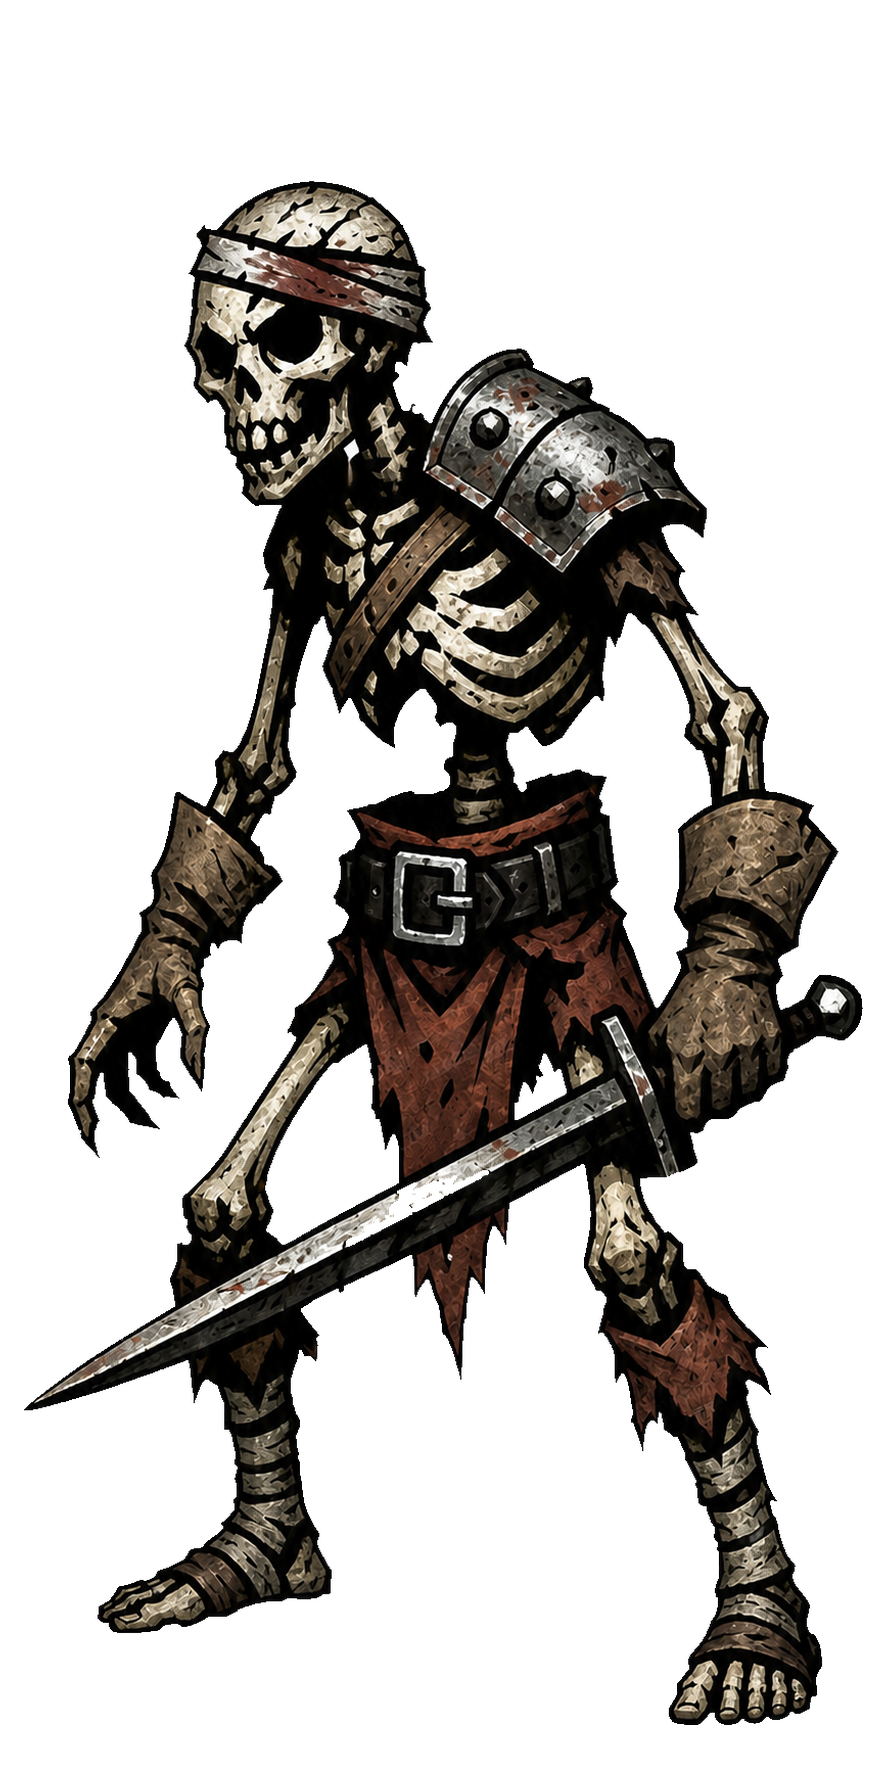
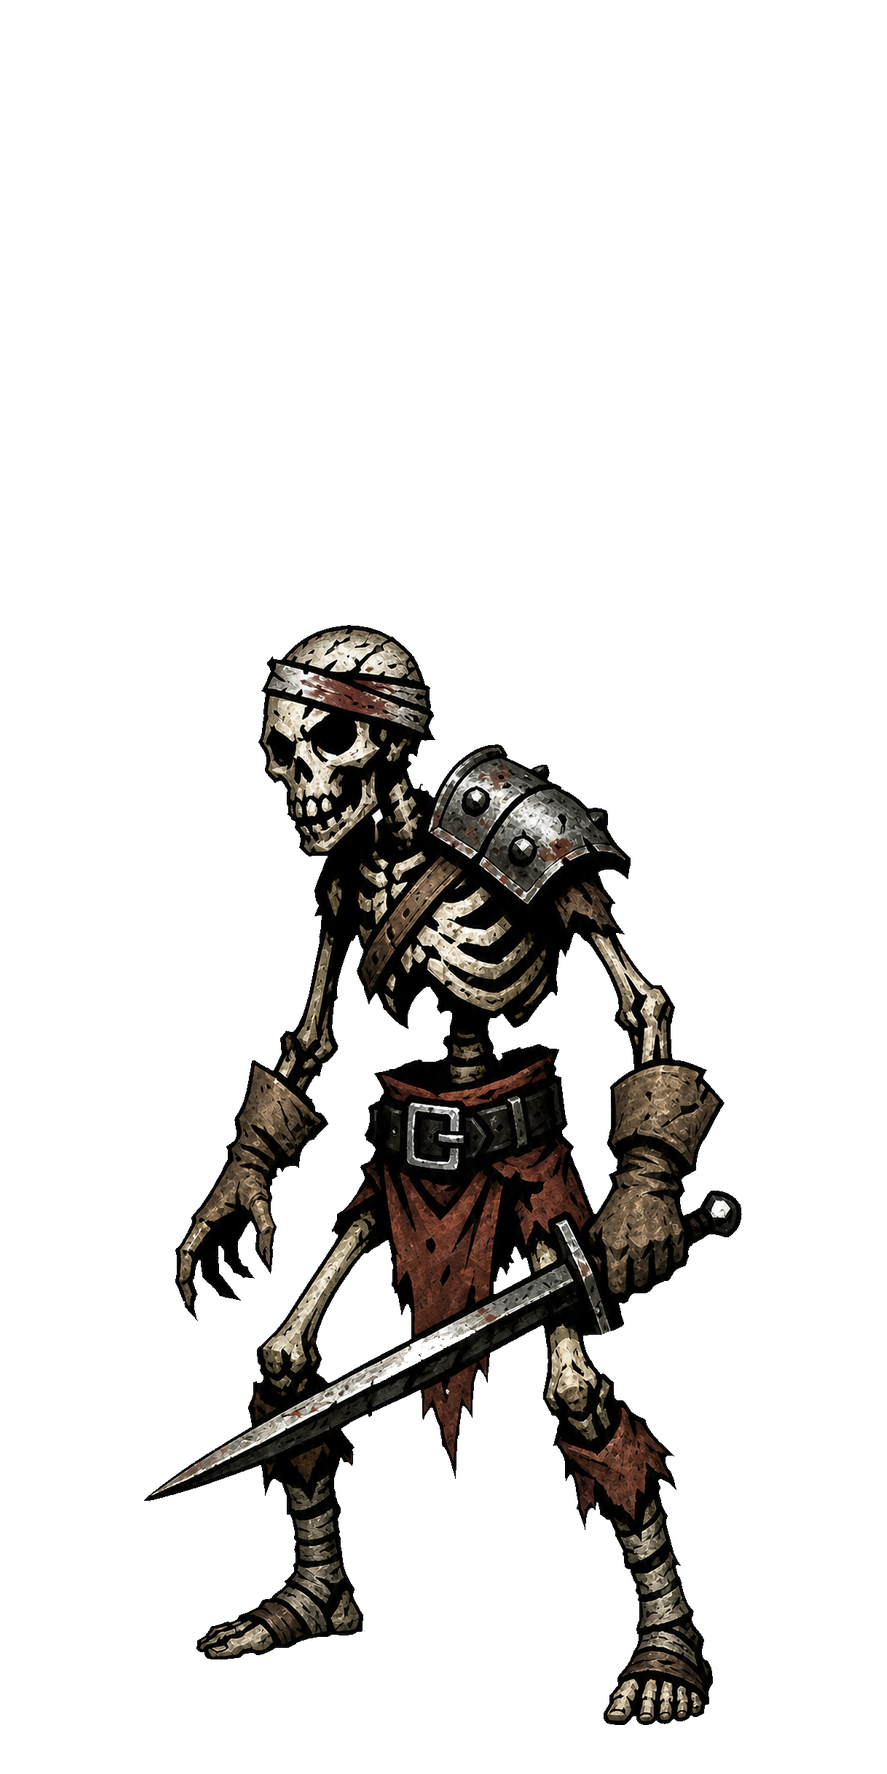
feat: add the run map between the loadout and the first room
Screen 4 now proceeds to the map, and the map is where a room is entered from.

The route is the parchment's own: eight nodes, one crooked line left to right,
with the circles and the dotted line between them painted into the art. The map
ships a sibling .json giving each node's position as a fraction of the image, so
this places a marker over every circle rather than drawing a second set. Those
markers are the slots the room icons will sit in.

Only the next room can be entered, which is Room 1 until a run tracks its own
progress. The other seven nodes are drawn and inert — rooms.json now holds eight
rooms to match the route, but only Room 1 has anything behind it.

The overlay is anchored to the image's own box. Giving that box a shape of its
own letterboxes the image inside it and every marker drifts off its circle,
which is what the first two attempts did.

Also restores the skeleton's idle rate to the fighter's 4.5351fps. Regenerating
the sheet had reset it to 9.

diff --git a/src/screens/RunMap.jsx b/src/screens/RunMap.jsx
@@ -1,0 +1,88 @@
+import { useDispatch } from 'react-redux'
+import roomData from '../../data/rooms.json'
+import { resolveMap } from '../config/assets'
+import MusicToggle from '../audio/MusicToggle'
+import { goTo } from '../store/uiSlice'
+
+/**
+ * Screen 5 — the run map.
+ *
+ * Between the loadout and the first fight, and where the player comes back to
+ * between fights. The route is a single crooked line of rooms running left to
+ * right (D3: no branching, one path).
+ *
+ * The circles and the dotted line joining them are painted into the parchment.
+ * What this draws is one marker per room, positioned from the coordinates the
+ * map's own JSON records — normalised, so they hold at any size. The markers
+ * are the slots the room icons will sit in.
+ *
+ * Only the next room can be entered (D3). Rooms past it are drawn but inert,
+ * because nothing behind them exists yet.
+ */
+
+/** Room 1 until a run tracks its own progress. */
+const NEXT_ROOM_INDEX = 0
+
+export default function RunMap() {
+  const dispatch = useDispatch()
+  const map = resolveMap(roomData.map)
+
+  if (!map) return null
+
+  const { nodes, width, nodeRadius } = map.meta
+  // The markers scale with the parchment, so the radius is a share of its width.
+  const markerSize = `${((nodeRadius * 2) / width) * 100}%`
+
+  return (
+    <main className="relative flex h-full w-full items-center justify-center overflow-hidden bg-soot-950">
+      <MusicToggle className="absolute top-6 right-6 z-20" />
+
+      {/* The wrapper is inline-block so it shrink-wraps the parchment exactly.
+          The node coordinates below are fractions of the image, so the markers
+          only land on the painted circles if this box IS the image — give it a
+          shape of its own and the image letterboxes inside it, and every marker
+          drifts. The cap is in viewport units because a percentage max-height
+          against an auto-height box does not resolve. */}
+      <div className="relative inline-block">
+        <img src={map.url} alt="" className="block max-h-screen w-auto max-w-full" />
+
+        {roomData.rooms.map((room, i) => {
+          const node = nodes[i]
+          if (!node) return null
+
+          const isNext = i === NEXT_ROOM_INDEX
+          const position = {
+            left: `${node.xNormalized * 100}%`,
+            top: `${node.yNormalized * 100}%`,
+            width: markerSize,
+            aspectRatio: '1',
+          }
+
+          return isNext ? (
+            <button
+              key={room.id}
+              type="button"
+              onClick={() => dispatch(goTo('room'))}
+              aria-label={`Enter ${room.name}`}
+              style={position}
+              className={[
+                '-translate-x-1/2 -translate-y-1/2 absolute cursor-pointer rounded-full',
+                'border-2 border-gold-300 bg-gold-500/20',
+                'transition-colors duration-150 outline-none',
+                'hover:bg-gold-500/40 focus-visible:ring-2 focus-visible:ring-gold-400',
+              ].join(' ')}
+            />
+          ) : (
+            <div
+              key={room.id}
+              aria-hidden="true"
+              title={room.name}
+              style={position}
+              className="-translate-x-1/2 -translate-y-1/2 absolute rounded-full border border-dashed border-soot-900/50"
+            />
+          )
+        })}
+      </div>
+    </main>
+  )
+}

diff --git a/src/App.jsx b/src/App.jsx
@@ -5,6 +5,7 @@ import HomeScreen from './screens/HomeScreen'
 import CharacterCreation from './screens/CharacterCreation'
 import PetCreation from './screens/PetCreation'
 import StartingLoadout from './screens/StartingLoadout'
+import RunMap from './screens/RunMap'
 import BattleRoom from './screens/BattleRoom'
 
 /**
@@ -14,10 +15,9 @@ import BattleRoom from './screens/BattleRoom'
  *   home -> [New Game]  -> creation -> pet -> cards -> entrance -> map
  *        -> [Continue]  -> map (never resumes mid-encounter)
  *
- * `entrance` and `map` do not exist yet, so screen 4 currently proceeds
- * straight into `room` — the only way to reach the battle room, and better
- * than the self-navigation it replaced. Restore the documented flow once the
- * map is built.
+ * `entrance` does not exist yet, so screen 4 proceeds straight to the map, and
+ * the map is where a room is entered from. The player is meant to return here
+ * between fights; nothing sends them back yet, because no fight can end.
  *
  * The current screen lives in Redux because every screen navigates; screens
  * dispatch `goTo` themselves rather than being handed callbacks.
@@ -30,6 +30,7 @@ const SCREENS = {
   creation: CharacterCreation,
   pet: PetCreation,
   cards: StartingLoadout,
+  map: RunMap,
   room: BattleRoom,
 }
 

diff --git a/src/config/assets.js b/src/config/assets.js
@@ -218,3 +218,37 @@ export function resolveIdleSprite({ race, gender, classId, pose = 'ready' }) {
   if (!classId) return null
   return idleSpriteNamed(`${classId}-${race}-${gender}-${pose}`)
 }
+
+/**
+ * Route maps — `assets/maps/{filename}`, each with a sibling `.json` naming
+ * where its nodes sit as fractions of the image. The circles and the dotted
+ * line between them are painted into the art; the coordinates exist so the
+ * screen can put something on top of each one.
+ */
+const MAP_ART = urlOf(
+  import.meta.glob('../../assets/maps/*.png', {
+    eager: true,
+    query: '?url',
+    import: 'default',
+  }),
+)
+
+const MAP_META = Object.fromEntries(
+  Object.entries(
+    import.meta.glob('../../assets/maps/*.json', { eager: true, import: 'default' }),
+  ).map(([path, meta]) => [artKey(path.split('/').pop().replace(/\.json$/, '')), meta]),
+)
+
+/**
+ * The route map named in data, or null when either half is missing.
+ *
+ * @returns {{ url: string, meta: object } | null}
+ */
+export function resolveMap(map) {
+  const filename = map?.filename
+  if (!filename) return null
+  const key = artKey(filename.replace(/\.png$/, ''))
+  const url = MAP_ART[key]
+  const meta = MAP_META[key]
+  return url && meta ? { url, meta } : null
+}

diff --git a/src/screens/StartingLoadout.jsx b/src/screens/StartingLoadout.jsx
@@ -98,7 +98,7 @@ export default function StartingLoadout() {
       {/* --------------------------------------------------------- actions */}
       <div className="absolute inset-x-0 bottom-0 z-10 flex items-center justify-center gap-3 bg-gradient-to-t from-soot-950 to-transparent p-5 lg:p-8">
         <ActionButton onClick={() => dispatch(goTo('pet'))}>Back</ActionButton>
-        <ActionButton primary onClick={() => dispatch(goTo('room'))}>
+        <ActionButton primary onClick={() => dispatch(goTo('map'))}>
           Proceed
         </ActionButton>
       </div>

diff --git a/SCHEMA.md b/SCHEMA.md
@@ -428,6 +428,25 @@ Room {
   becomes a list of enemy ids once there are enemies to name.
 - Rooms do not persist state. Enemy health is discarded at room end and enemies
   never return (D5); only the player carries forward (D4).
+- The run's rooms are an ordered list, and `rooms[i]` is the map's `nodes[i]`.
+  There are eight, matching the route drawn on the parchment; all but Room 1 are
+  stubs carrying only `id`, `number` and `name`.
+
+### The map
+
+`rooms.json` also carries the run's route:
+
+```
+map: { filename, path }    // assets/maps/
+```
+
+Its sibling `.json` — same basename — records each node's position as a fraction
+of the image (`xNormalized`, `yNormalized`) plus a `nodeRadius`. **The circles
+and the dotted line between them are painted into the art**; the coordinates
+exist so the screen can place something over each circle, and being fractions
+they hold at any size. A screen overlaying them must anchor to the image's own
+box — give the box a shape of its own and the image letterboxes inside it, and
+every marker drifts off its circle.
 
 ---
 
